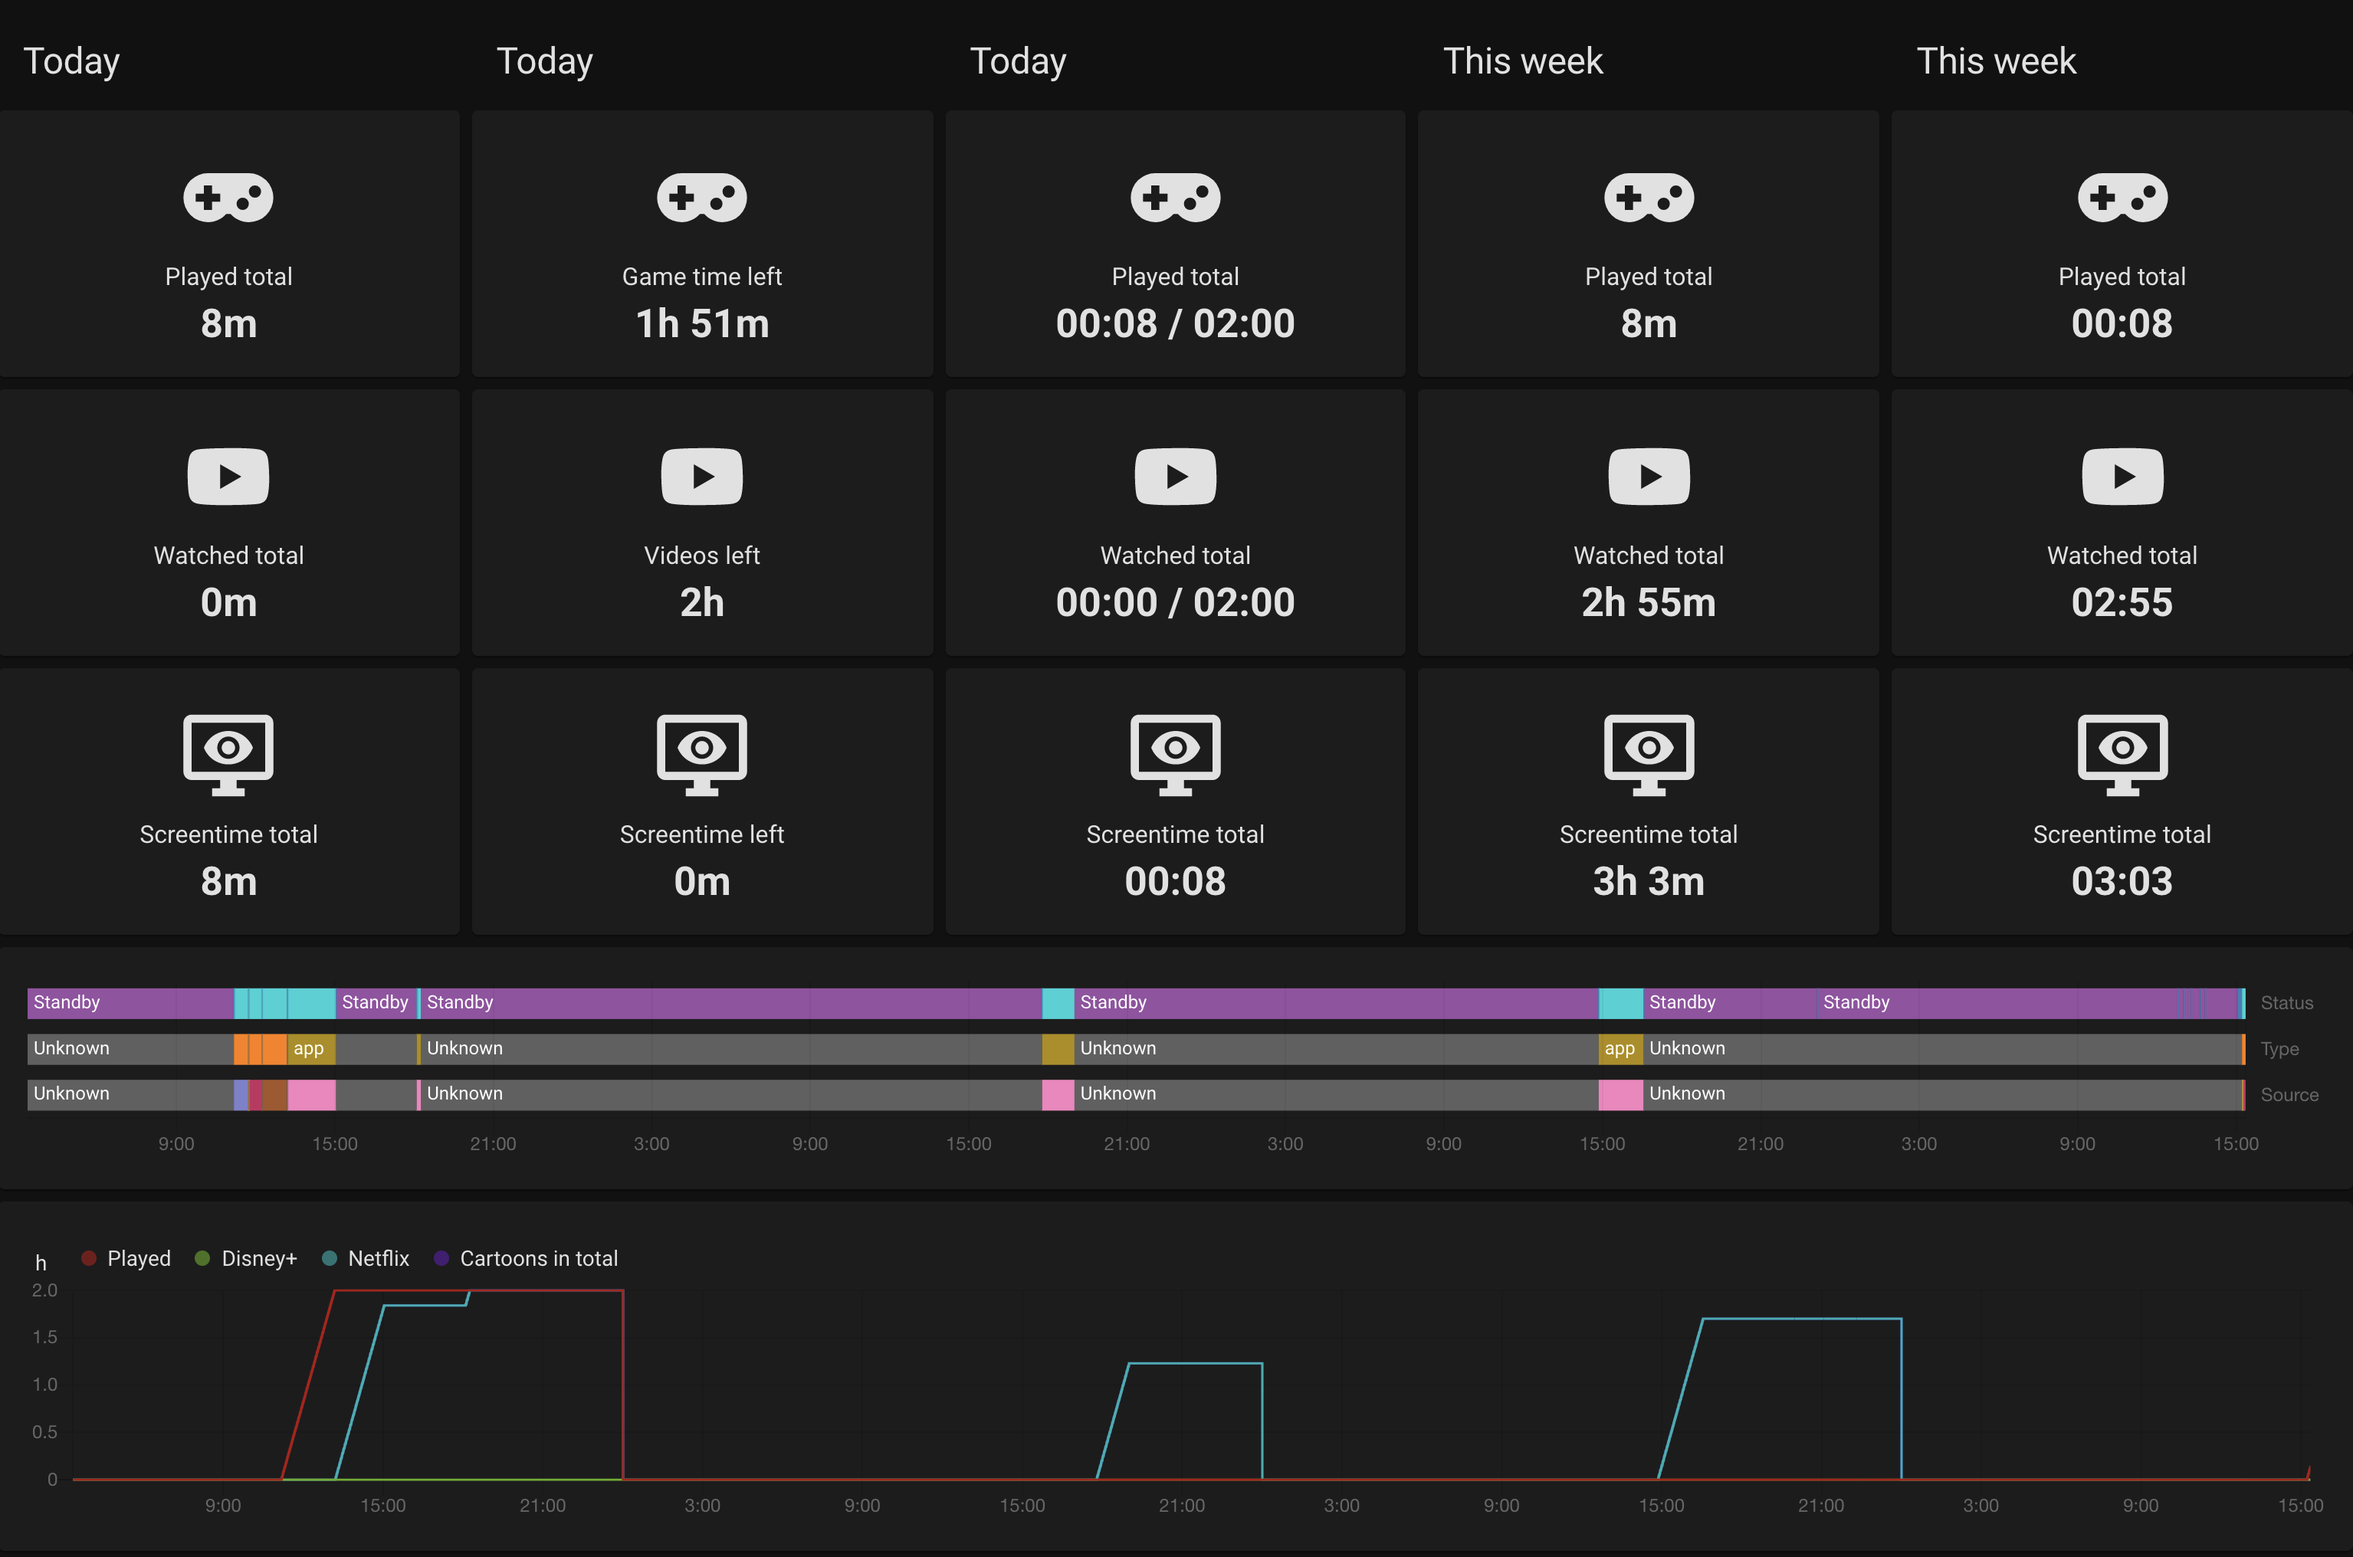
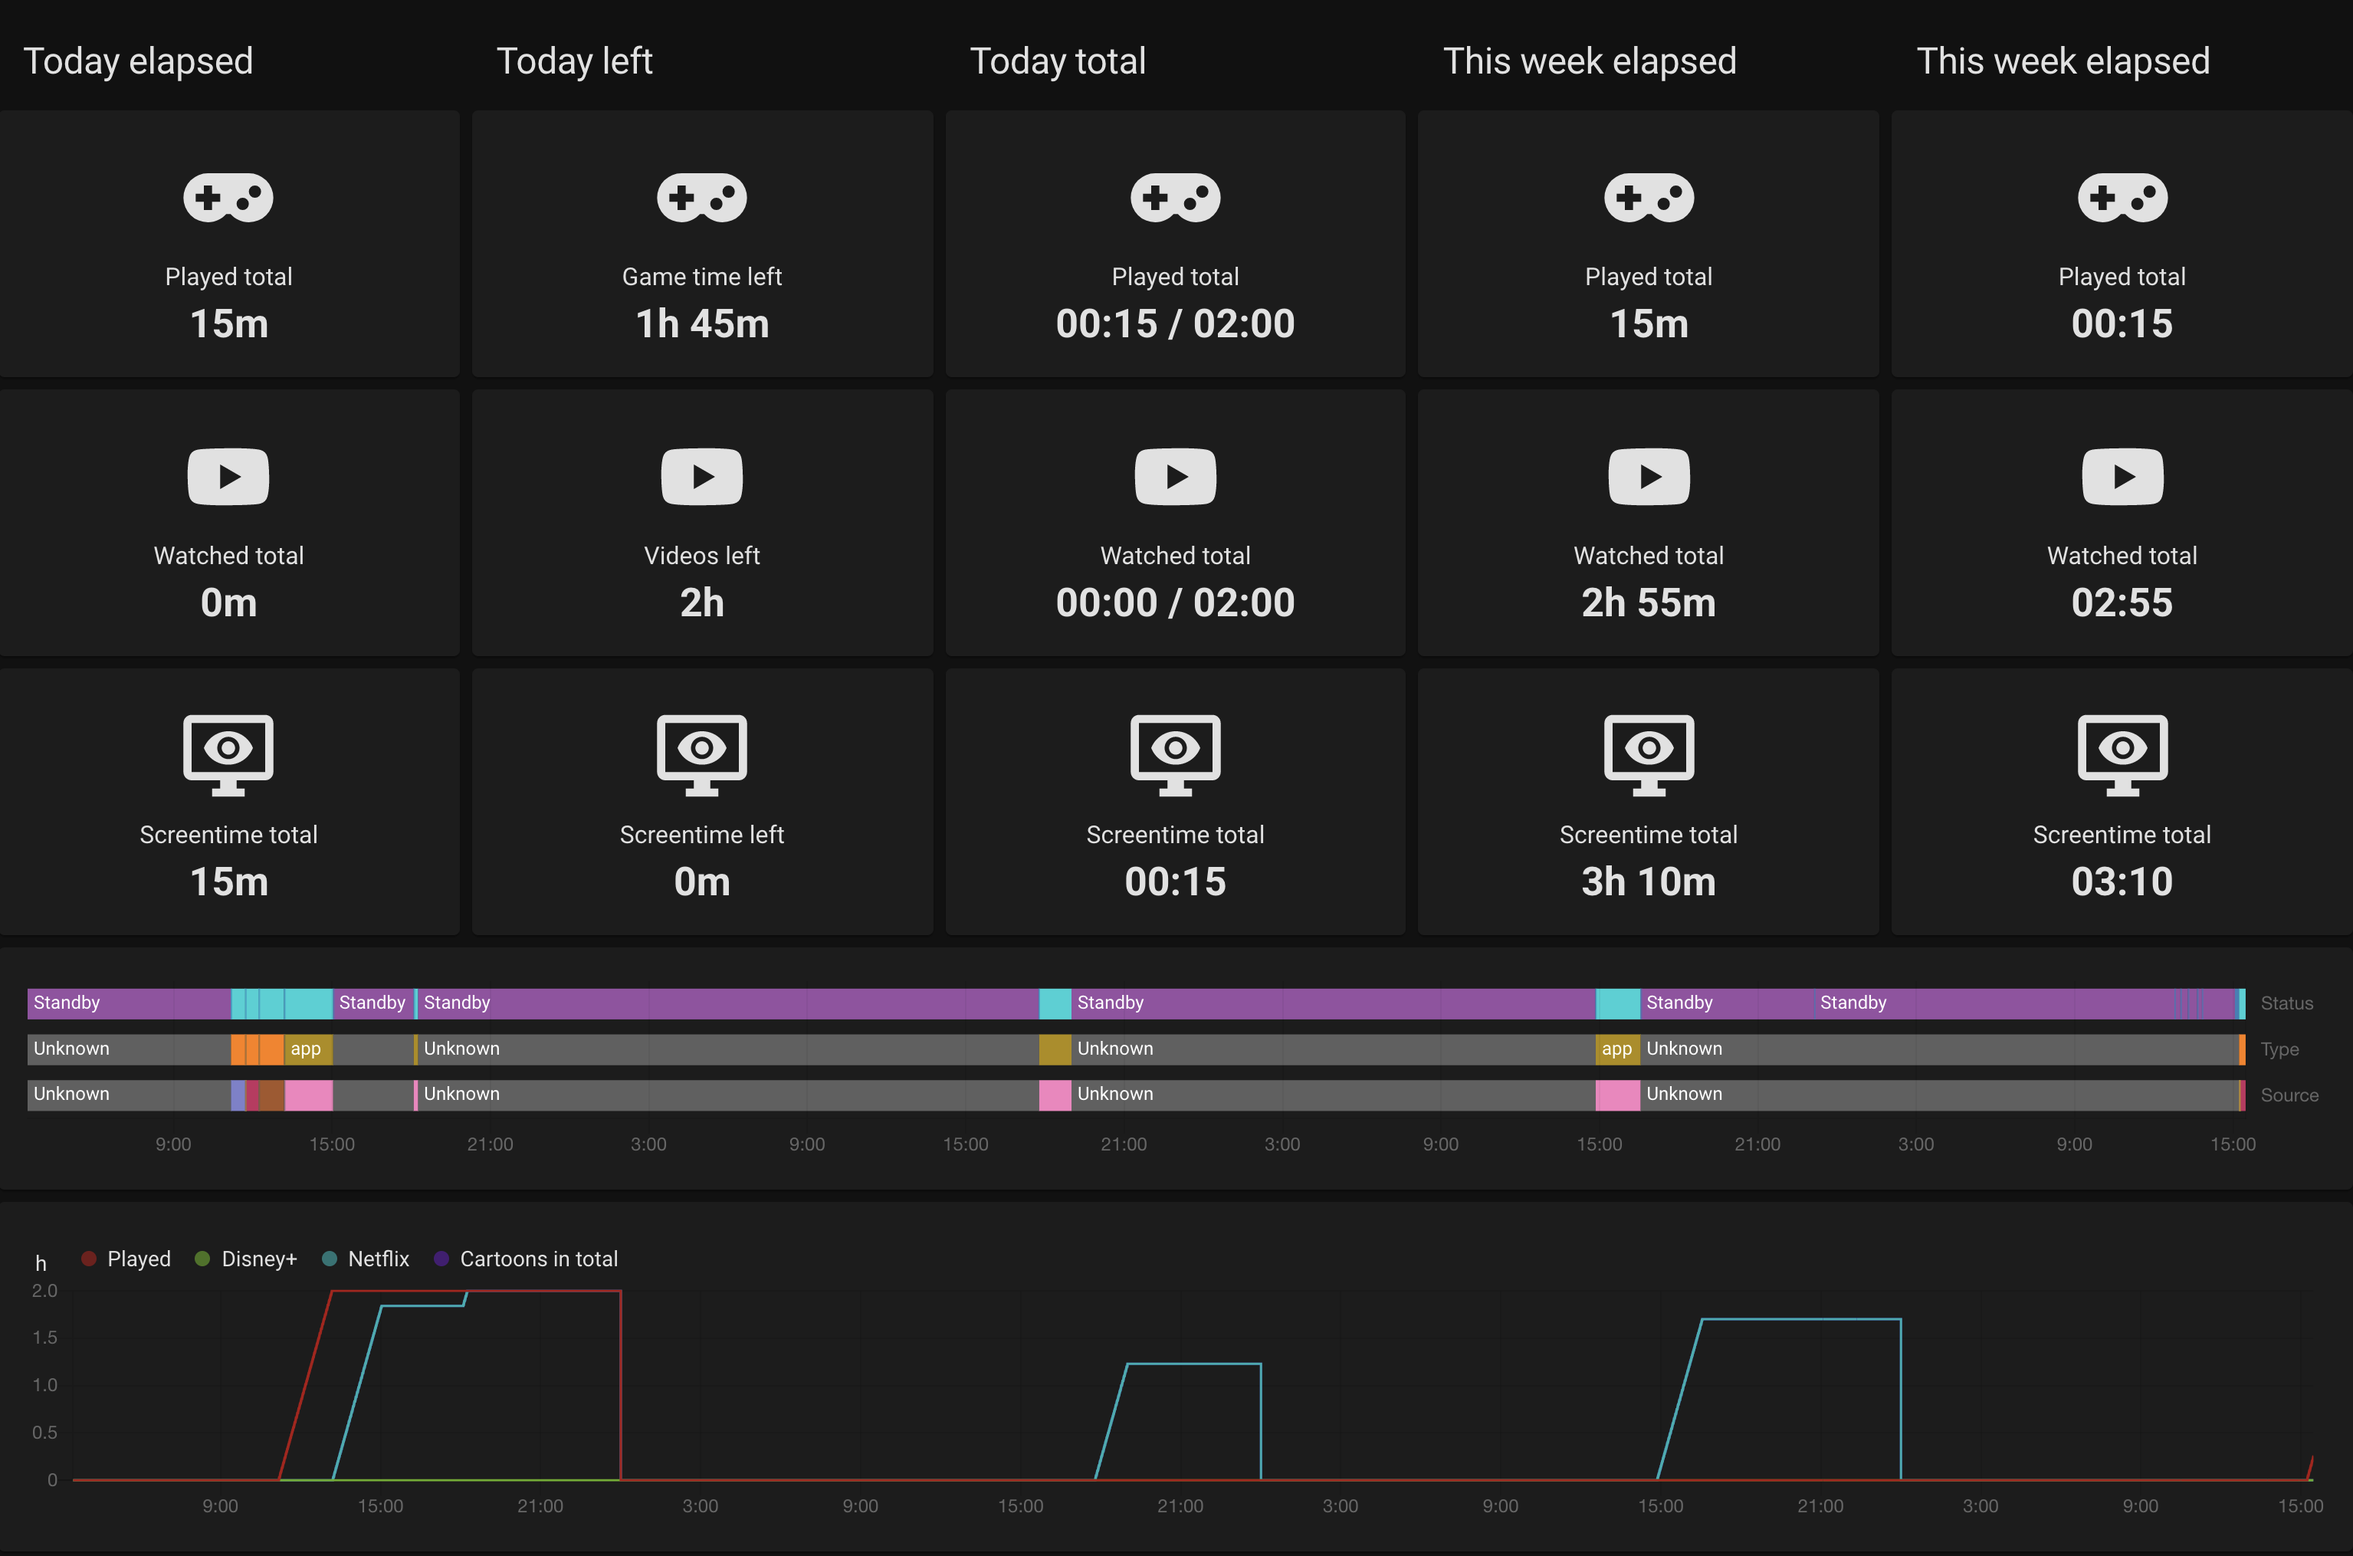
docs: added new example and screenshot

diff --git a/README.md b/README.md
@@ -81,7 +81,7 @@ icon: sony-playstation
 type: horizontal-stack
 cards:
   - type: vertical-stack
-    title: Today
+    title: Today elapsed
     cards:
       - format: Time Elapsed
         time_format: 1h 5m
@@ -102,7 +102,7 @@ cards:
         icon: monitor-eye
         time_today: sensor.ps4_playing
   - type: vertical-stack
-    title: Today
+    title: Today left
     cards:
       - format: Time Left
         time_format: 1h 5m
@@ -126,7 +126,7 @@ cards:
         time_today: sensor.ps4_playing
         max_today: sensor.ps4_playing
   - type: vertical-stack
-    title: Today
+    title: Today total
     cards:
       - format: Time Elapsed
         time_format: '01:05'
@@ -149,7 +149,7 @@ cards:
         icon: monitor-eye
         time_today: sensor.ps4_playing
   - type: vertical-stack
-    title: This week
+    title: This week elapsed
     cards:
       - format: Time Elapsed
         time_format: 1h 5m
@@ -170,7 +170,7 @@ cards:
         icon: monitor-eye
         time_today: sensor.ps4_weekly_playing
   - type: vertical-stack
-    title: This week
+    title: This week elapsed
     cards:
       - format: Time Elapsed
         time_format: '01:05'
